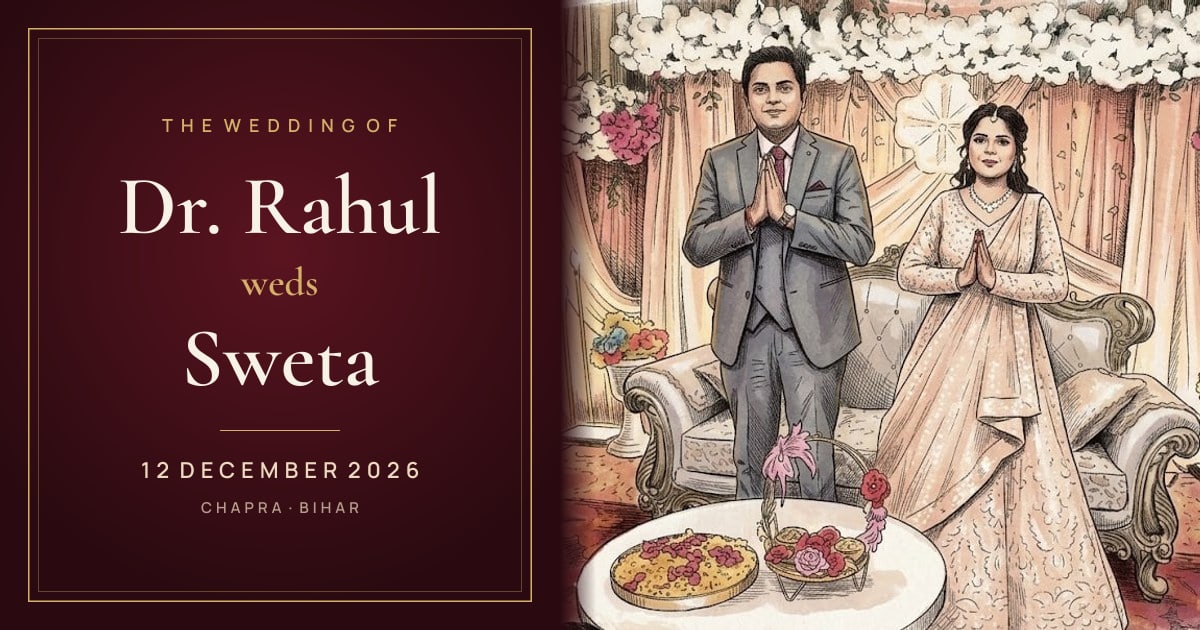
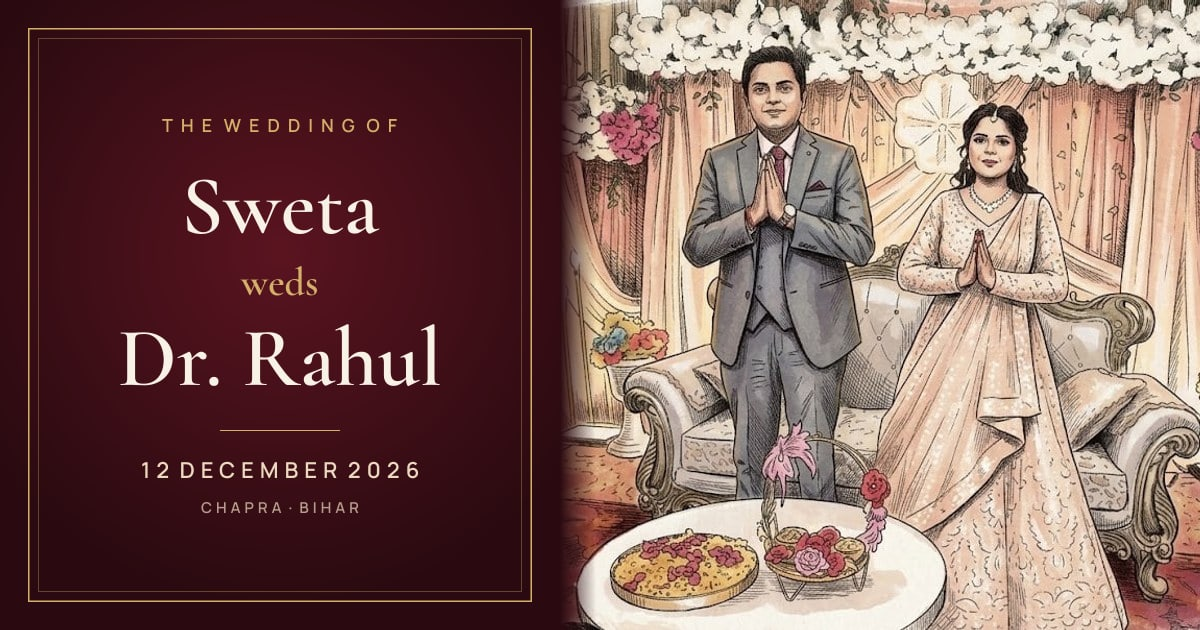
Present the invitation as hosted by the bride's family
- Bride first wherever the couple appears together: envelope (names and the
  wax seal, now S ✦ R), hero, closing, menu, page title, share card,
  screen-reader labels, image descriptions and calendar file names —
  "Sweta weds Dr. Rahul" / "श्वेता संग डॉ. राहुल".
- Story: the bride (Daughter of Shree Chandrasekhar Singh & Smt. Savita Devi)
  on the left, "weds" between, the groom (Son of Dr. Birendra Kumar Singh &
  Smt. Renu Singh) on the right.
- Families: the bride's family on the left, the groom's on the right, with a
  fine gold seam and lotus between; stacked bride-first on phones. The host
  line now comes from the bride's parents, in English and Hindi.
- Dates, venues, events and all illustrations are unchanged (illustration
  files byte-identical).

Claude-Session: https://claude.ai/code/session_01PCn46gN2cdPUcMfrUSV7rg

Changed region(s): [[0.0925, 0.5127, 0.37, 0.6333], [0.0925, 0.2714, 0.37, 0.3921]]

diff --git a/src/i18n/translations.ts b/src/i18n/translations.ts
@@ -26,15 +26,13 @@ export const translations = {
     navLabel: "Invitation sections",
     navInvitation: "Invitation",
     invitationDialog: (title: string) => `${title} — wedding invitation`,
-    coupleAria: (groom: string, bride: string) => `${groom} and ${bride}`,
+    coupleAria: (first: string, second: string) => `${first} and ${second}`,
     envelopeHint: "Tap the seal to open",
     envelopeBlessings: "With the blessings of our families",
     familiesHeadingA: "With the Blessings",
     familiesHeadingB: "of Our Families",
-    /** Hindi uses its own complete sentence here; English builds it from data. */
-    familiesSentence: "",
-    familiesIntroEnd: ".",
     nameJoin: "&",
+    parentsJoin: "&",
     timeLabel: "Time",
     venueLabel: "Venue",
     detailsOf: (name: string) => `${name} details`,
@@ -61,14 +59,13 @@ export const translations = {
     navLabel: "निमंत्रण के भाग",
     navInvitation: "निमंत्रण",
     invitationDialog: (title: string) => `${title} — शुभ विवाह निमंत्रण`,
-    coupleAria: (groom: string, bride: string) => `${groom} संग ${bride}`,
+    coupleAria: (first: string, second: string) => `${first} संग ${second}`,
     envelopeHint: "निमंत्रण खोलने के लिए मुहर छुएँ",
     envelopeBlessings: "परिवारजनों के आशीर्वाद से",
     familiesHeadingA: "बड़ों के",
     familiesHeadingB: "आशीर्वाद से",
-    familiesSentence: "डॉ. राहुल और श्वेता के शुभ विवाह में आपकी गरिमामयी उपस्थिति प्रार्थनीय है।",
-    familiesIntroEnd: "।",
     nameJoin: "संग",
+    parentsJoin: "एवं",
     timeLabel: "समय",
     venueLabel: "स्थान",
     detailsOf: (name: string) => `${name} का विवरण`,
@@ -96,7 +93,7 @@ export const hindiContent = {
     groom: "डॉ. राहुल",
     groomFirstName: "राहुल",
     bride: "श्वेता",
-    title: "डॉ. राहुल संग श्वेता",
+    title: "श्वेता संग डॉ. राहुल",
     date: "12 दिसंबर 2026",
     city: "छपरा, बिहार",
   },
@@ -111,9 +108,13 @@ export const hindiContent = {
     titleB: "एक नई शुरुआत",
     groomLabel: "वर",
     brideLabel: "वधू",
+    brideParentsLabel: "सुपुत्री",
+    groomParentsLabel: "सुपुत्र",
   },
   families: {
     heading: "बड़ों के आशीर्वाद से",
+    intro:
+      "श्री चंद्रशेखर सिंह एवं श्रीमती सविता देवी ने अपनी सुपुत्री श्वेता का शुभ विवाह डॉ. राहुल के साथ निश्चित किया है। इस मंगल अवसर पर आप सपरिवार सादर आमंत्रित हैं।",
     groom: {
       label: "वर पक्ष",
       father: "डॉ. बिरेन्द्र कुमार सिंह",
@@ -172,11 +173,11 @@ export const hindiContent = {
     arrived: "आज वो शुभ घड़ी आ गई",
   },
   images: {
-    hero: { alt: "मंच पर हाथ जोड़कर अतिथियों का स्वागत करते डॉ. राहुल और श्वेता का चित्र" },
-    heroMobile: { alt: "मंच पर हाथ जोड़कर अतिथियों का स्वागत करते डॉ. राहुल और श्वेता का चित्र" },
+    hero: { alt: "मंच पर हाथ जोड़कर अतिथियों का स्वागत करते श्वेता और डॉ. राहुल का चित्र" },
+    heroMobile: { alt: "मंच पर हाथ जोड़कर अतिथियों का स्वागत करते श्वेता और डॉ. राहुल का चित्र" },
     story: { alt: "सीढ़ियों पर खड़ी श्वेता को मुस्कुराकर देखते डॉ. राहुल का चित्र" },
-    wedding: { alt: "श्वेता के कंधे पर हाथ रखे, एक-दूसरे को देखकर मुस्कुराते डॉ. राहुल और श्वेता का चित्र" },
-    closing: { alt: "विवाह परिधान में साथ खड़े डॉ. राहुल और श्वेता का चित्र" },
+    wedding: { alt: "श्वेता के कंधे पर हाथ रखे, एक-दूसरे को देखकर मुस्कुराते श्वेता और डॉ. राहुल का चित्र" },
+    closing: { alt: "विवाह परिधान में साथ खड़े श्वेता और डॉ. राहुल का चित्र" },
   },
   final: {
     heading: "हार्दिक आभार",

diff --git a/src/components/CoupleStory.tsx b/src/components/CoupleStory.tsx
@@ -31,7 +31,7 @@ function Person({ name, note }: { name: string; note?: string }) {
 }
 
 export default function CoupleStory() {
-  const { story, families, couple, images } = useWedding();
+  const { story, families, couple, images, invitation } = useWedding();
   const t = useT();
   const rise = useRise();
 
@@ -52,15 +52,28 @@ export default function CoupleStory() {
           <m.div variants={rise(0.18)}>
             <OrnamentDivider tone="wine" animate={false} className="mx-auto mt-4 h-7 w-44 opacity-60 lg:mx-0" />
           </m.div>
-          {/* short introduction: the two of them, by name */}
-          <m.dl variants={rise(0.3)} className="mx-auto mt-5 grid max-w-xs grid-cols-2 gap-4 lg:mx-0">
-            <div>
-              <dt className="eyebrow text-[0.56rem] text-gold-deep">{story.groomLabel}</dt>
-              <dd className="mt-1 font-serif text-2xl text-ink">{couple.groom}</dd>
-            </div>
-            <div>
+          {/* the couple, as on the card: bride and her family on the left, groom and his on the right */}
+          <m.dl variants={rise(0.3)} className="mx-auto mt-6 grid max-w-md grid-cols-[1fr_auto_1fr] items-start gap-3 sm:gap-5 lg:mx-0">
+            <div className="text-center lg:text-left">
               <dt className="eyebrow text-[0.56rem] text-gold-deep">{story.brideLabel}</dt>
               <dd className="mt-1 font-serif text-2xl text-ink">{couple.bride}</dd>
+              <dd className="mt-2 text-[0.72rem] leading-snug text-ink-soft">
+                <span className="block font-serif text-[0.8rem] italic text-gold-deep">{story.brideParentsLabel}</span>
+                {families.bride.father} {t.parentsJoin} {families.bride.mother}
+              </dd>
+            </div>
+            <div aria-hidden className="flex flex-col items-center gap-1.5 pt-5 text-gold-deep/80">
+              <span className="h-5 w-px bg-gradient-to-b from-transparent to-gold-deep/45" />
+              <span className="font-serif text-lg italic">{invitation.weds}</span>
+              <span className="h-5 w-px bg-gradient-to-t from-transparent to-gold-deep/45" />
+            </div>
+            <div className="text-center lg:text-right">
+              <dt className="eyebrow text-[0.56rem] text-gold-deep">{story.groomLabel}</dt>
+              <dd className="mt-1 font-serif text-2xl text-ink">{couple.groom}</dd>
+              <dd className="mt-2 text-[0.72rem] leading-snug text-ink-soft">
+                <span className="block font-serif text-[0.8rem] italic text-gold-deep">{story.groomParentsLabel}</span>
+                {families.groom.father} {t.parentsJoin} {families.groom.mother}
+              </dd>
             </div>
           </m.dl>
         </div>
@@ -82,26 +95,30 @@ export default function CoupleStory() {
           {t.familiesHeadingA} <span className="italic text-wine">{t.familiesHeadingB}</span>
         </m.h3>
         <m.p variants={rise(0.16)} className="mx-auto mt-3 max-w-md text-[0.9rem] leading-relaxed text-ink-soft">
-          {t.familiesSentence || (
-            <>
-              {families.intro} {couple.groom} &amp; {couple.bride}{t.familiesIntroEnd}
-            </>
-          )}
+          {families.intro}
         </m.p>
-        <m.div variants={rise(0.26)} className="mt-7 grid gap-7 sm:grid-cols-2 sm:gap-10">
-          <div>
-            <p className="eyebrow text-[0.58rem] text-gold-deep">{families.groom.label}</p>
-            <ul className="mt-2 space-y-1">
-              <Person name={families.groom.father} note={families.groom.fatherTitle} />
-              <Person name={families.groom.mother} />
-            </ul>
-          </div>
+        {/* bride's family on the left, groom's family on the right — a fine gold seam between */}
+        <m.div variants={rise(0.26)} className="mt-8 grid items-stretch gap-6 sm:grid-cols-[1fr_auto_1fr] sm:gap-8">
           <div>
             <p className="eyebrow text-[0.58rem] text-gold-deep">{families.bride.label}</p>
-            <ul className="mt-2 space-y-1">
+            <span aria-hidden className="mx-auto mt-2 block h-px w-10 bg-gold-deep/40" />
+            <ul className="mt-3 space-y-1">
               <Person name={families.bride.grandfather} note={families.bride.grandfatherTitle} />
               <Person name={families.bride.father} />
               <Person name={families.bride.mother} />
+            </ul>
+          </div>
+          <div aria-hidden className="flex items-center justify-center gap-3 sm:flex-col">
+            <span className="h-px w-16 bg-gradient-to-l from-gold-deep/40 to-transparent sm:h-auto sm:w-px sm:flex-1 sm:bg-gradient-to-t" />
+            <LotusMark tone="wine" className="h-5 w-8 shrink-0 opacity-70" />
+            <span className="h-px w-16 bg-gradient-to-r from-gold-deep/40 to-transparent sm:h-auto sm:w-px sm:flex-1 sm:bg-gradient-to-b" />
+          </div>
+          <div>
+            <p className="eyebrow text-[0.58rem] text-gold-deep">{families.groom.label}</p>
+            <span aria-hidden className="mx-auto mt-2 block h-px w-10 bg-gold-deep/40" />
+            <ul className="mt-3 space-y-1">
+              <Person name={families.groom.father} note={families.groom.fatherTitle} />
+              <Person name={families.groom.mother} />
             </ul>
           </div>
         </m.div>

diff --git a/src/components/EnvelopeOpening.tsx b/src/components/EnvelopeOpening.tsx
@@ -10,7 +10,7 @@
  *
  * The envelope: ivory handmade paper with gold foil rims and borders, the
  * Ganesh mark and the Vakratunda shloka printed in kumkum ink on the flap,
- * the couple's names on the pocket, and a pressed maroon wax seal (R ✦ S).
+ * the couple's names on the pocket, and a pressed maroon wax seal (S ✦ R).
  *
  * Sequence on tapping the seal / flap:
  *   seal presses and breaks → flap lifts slowly over the top (maroon jaali
@@ -145,8 +145,8 @@ function WaxSeal({ className = "" }: { className?: string }) {
       <circle cx="50" cy="50" r="22" fill="none" stroke="url(#seal-gold)" strokeWidth="0.45" strokeOpacity="0.8" />
       {/* monogram */}
       <text x="50" y="57" textAnchor="middle" fill="url(#seal-gold)" className="font-serif" fontSize="17.5" letterSpacing="0.6">
-        R<tspan fontSize="8.5" dy="-3.4"> ✦ </tspan>
-        <tspan dy="3.4">S</tspan>
+        S<tspan fontSize="8.5" dy="-3.4"> ✦ </tspan>
+        <tspan dy="3.4">R</tspan>
       </text>
       <path d="M44 39.5 Q50 35 56 39.5" fill="none" stroke="url(#seal-gold)" strokeWidth="0.6" strokeLinecap="round" />
       <path d="M44 61 Q50 65.5 56 61" fill="none" stroke="url(#seal-gold)" strokeWidth="0.6" strokeLinecap="round" />
@@ -306,9 +306,9 @@ export default function EnvelopeOpening({ onOpen }: { onOpen: () => void }) {
               <div className="relative flex h-[54%] flex-col items-center justify-center px-[8%] text-center">
                 <p className="font-sans font-semibold uppercase tracking-[0.34em] text-[2.3cqw] text-gold-deep sm:text-[1.55cqw]">{tr.envelopeBlessings}</p>
                 <LotusMark tone="wine" className="my-[3%] h-[3.6cqw] w-auto opacity-80 sm:h-[2.6cqw]" />
-                <p className="serif-display text-[8.4cqw] leading-none text-wine sm:text-[5.6cqw]">{couple.groom}</p>
-                <p className="my-[1.5%] font-serif text-[4cqw] italic text-gold-deep sm:text-[2.7cqw]">{invitation.weds}</p>
                 <p className="serif-display text-[8.4cqw] leading-none text-wine sm:text-[5.6cqw]">{couple.bride}</p>
+                <p className="my-[1.5%] font-serif text-[4cqw] italic text-gold-deep sm:text-[2.7cqw]">{invitation.weds}</p>
+                <p className="serif-display text-[8.4cqw] leading-none text-wine sm:text-[5.6cqw]">{couple.groom}</p>
                 <p className="font-sans font-semibold uppercase tracking-[0.34em] mt-[4%] text-[2.4cqw] text-ink-soft sm:text-[1.6cqw]">{couple.date}</p>
               </div>
             </m.div>
@@ -335,9 +335,9 @@ export default function EnvelopeOpening({ onOpen }: { onOpen: () => void }) {
                   <p lang="hi" className="font-deva text-[4cqw] leading-[1.5] sm:text-[2.8cqw]" style={{ color: INK }}>
                     {invitation.hindiTitle}
                   </p>
-                  <p className="serif-display mt-[0.4em] text-[7.4cqw] leading-[0.95] text-wine sm:text-[4.9cqw]">{couple.groom}</p>
+                  <p className="serif-display mt-[0.4em] text-[7.4cqw] leading-[0.95] text-wine sm:text-[4.9cqw]">{couple.bride}</p>
                   <p className="font-serif text-[3.9cqw] italic leading-[1.35] text-gold-deep sm:text-[2.6cqw]">{invitation.weds}</p>
-                  <p className="serif-display text-[7.4cqw] leading-[0.95] text-wine sm:text-[4.9cqw]">{couple.bride}</p>
+                  <p className="serif-display text-[7.4cqw] leading-[0.95] text-wine sm:text-[4.9cqw]">{couple.groom}</p>
                   <div className="mt-[0.9em] flex items-center gap-[1.5cqw] sm:mt-[0.8em]">
                     <span className="h-px w-[6cqw] bg-gold/70 sm:w-[4cqw]" />
                     <p className="font-sans font-semibold uppercase tracking-[0.34em] text-[2.4cqw] text-gold-deep sm:text-[1.65cqw]">{couple.date}</p>

diff --git a/src/data/weddingData.ts b/src/data/weddingData.ts
@@ -41,7 +41,7 @@ export const weddingData = {
     groom: "Dr. Rahul",
     groomFirstName: "Rahul",
     bride: "Sweta",
-    title: "Dr. Rahul Weds Sweta",
+    title: "Sweta Weds Dr. Rahul",
     date: "12 December 2026",
     dateShort: "12.12.2026",
     city: "Chapra, Bihar",
@@ -63,11 +63,14 @@ export const weddingData = {
     titleB: "One Journey",
     groomLabel: "The Groom",
     brideLabel: "The Bride",
+    brideParentsLabel: "Daughter of",
+    groomParentsLabel: "Son of",
   },
 
   families: {
     heading: "With the Blessings of Our Families",
-    intro: "With the blessings of our parents and elders, we invite you to celebrate the wedding of",
+    intro:
+      "With the blessings of their elders, Shree Chandrasekhar Singh & Smt. Savita Devi request the pleasure of your company at the wedding of their daughter Sweta with Dr. Rahul.",
     groom: {
       label: "Groom's Family",
       father: "Dr. Birendra Kumar Singh",
@@ -161,11 +164,11 @@ export const weddingData = {
 
   /** Illustrated artwork — never distorted; crops only trim empty paper. */
   images: {
-    hero: img("illustrations/rahul-sweta-namaste", "Illustration of Dr. Rahul and Sweta greeting guests with folded hands on their flower-decked wedding stage"),
-    heroMobile: img("illustrations/rahul-sweta-namaste-mobile", "Illustration of Dr. Rahul and Sweta greeting guests with folded hands on their flower-decked wedding stage"),
-    story: img("illustrations/rahul-sweta-staircase", "Illustration of Dr. Rahul smiling up at Sweta as she stands on the staircase"),
-    wedding: img("illustrations/rahul-sweta-embrace", "Illustration of Dr. Rahul with his hand on Sweta's shoulder as they smile at each other"),
-    closing: img("illustrations/rahul-sweta-together", "Illustration of Dr. Rahul and Sweta standing together in their wedding attire"),
+    hero: img("illustrations/rahul-sweta-namaste", "Illustration of Sweta and Dr. Rahul greeting guests with folded hands on their flower-decked wedding stage"),
+    heroMobile: img("illustrations/rahul-sweta-namaste-mobile", "Illustration of Sweta and Dr. Rahul greeting guests with folded hands on their flower-decked wedding stage"),
+    story: img("illustrations/rahul-sweta-staircase", "Illustration of Sweta standing on the staircase as Dr. Rahul smiles up at her"),
+    wedding: img("illustrations/rahul-sweta-embrace", "Illustration of Sweta and Dr. Rahul smiling at each other, his hand on her shoulder"),
+    closing: img("illustrations/rahul-sweta-together", "Illustration of Sweta and Dr. Rahul standing together in their wedding attire"),
   },
 
   music: {
@@ -194,10 +197,10 @@ export const weddingData = {
   ],
 
   seo: {
-    title: "Dr. Rahul Weds Sweta | 12 December 2026",
-    description: "Join us in celebrating the wedding of Dr. Rahul and Sweta on 12 December 2026.",
+    title: "Sweta Weds Dr. Rahul | 12 December 2026",
+    description: "Join us in celebrating the wedding of Sweta and Dr. Rahul on 12 December 2026.",
     ogImage: "/og/rahul-sweta-og.jpg",
-    ogImageAlt: "Dr. Rahul weds Sweta — 12 December 2026",
+    ogImageAlt: "Sweta weds Dr. Rahul — 12 December 2026",
     themeColor: "#2a0a10",
   },
 } as const;

diff --git a/src/components/HeroSection.tsx b/src/components/HeroSection.tsx
@@ -51,7 +51,7 @@ export default function HeroSection({ revealed }: { revealed: boolean }) {
     <section
       ref={ref}
       id="top"
-      aria-label={t.coupleAria(couple.groom, couple.bride)}
+      aria-label={t.coupleAria(couple.bride, couple.groom)}
       className="surface-maroon relative flex min-h-[100svh] items-center overflow-hidden px-6 pb-12 pt-20 sm:px-10"
     >
       {/* atmosphere: breathing glow, garland, florals, petals, gold dust */}
@@ -85,9 +85,9 @@ export default function HeroSection({ revealed }: { revealed: boolean }) {
             {invitation.cordially}
           </m.p>
           <m.h2 variants={rise(0.5)} className="serif-display mt-4 text-[3.1rem] leading-[0.92] text-ivory sm:text-6xl lg:text-[5.4rem]">
-            <span className="block">{couple.groom}</span>
-            <span className="my-1.5 block font-serif text-2xl italic text-gold-light lg:text-4xl">{invitation.weds}</span>
             <span className="block">{couple.bride}</span>
+            <span className="my-1.5 block font-serif text-2xl italic text-gold-light lg:text-4xl">{invitation.weds}</span>
+            <span className="block">{couple.groom}</span>
           </m.h2>
           <m.div variants={rise(0.8)} className="mt-4 flex items-center gap-4">
             <span className="h-px w-8 bg-gold/70" />

diff --git a/src/components/FinalSection.tsx b/src/components/FinalSection.tsx
@@ -119,9 +119,9 @@ export default function FinalSection() {
               <LotusMark className="mx-auto mb-3 h-7 w-11 lg:mx-0" />
             </m.div>
             <m.p variants={at(0.7, 18)} className="serif-display text-[3rem] sm:text-6xl">
-              <span className="gold-text gold-text-animate">{couple.groom}</span>
-              <span className="mx-2 font-serif text-2xl italic text-champagne sm:text-3xl">{t.nameJoin}</span>
               <span className="gold-text gold-text-animate">{couple.bride}</span>
+              <span className="mx-2 font-serif text-2xl italic text-champagne sm:text-3xl">{t.nameJoin}</span>
+              <span className="gold-text gold-text-animate">{couple.groom}</span>
             </m.p>
             <m.div variants={at(1)} className="mt-4 flex items-center justify-center gap-4 lg:justify-start">
               <span className="h-px w-10 bg-gold/70" />

diff --git a/src/components/InvitationOpening.tsx b/src/components/InvitationOpening.tsx
@@ -142,13 +142,13 @@ export default function InvitationOpening({ onOpen }: { onOpen: () => void }) {
 
               <h1 className="mt-8 flex flex-col items-center">
                 <m.span {...fade(3.0, 30)} className="serif-display gold-text gold-text-animate text-[3.6rem] sm:text-7xl">
-                  {couple.groom}
+                  {couple.bride}
                 </m.span>
                 <m.span {...fade(3.6)} className="my-3 font-serif text-2xl italic text-champagne/90 sm:text-3xl">
                   {invitation.weds}
                 </m.span>
                 <m.span {...fade(4.0, 30)} className="serif-display gold-text gold-text-animate text-[3.6rem] sm:text-7xl">
-                  {couple.bride}
+                  {couple.groom}
                 </m.span>
               </h1>
 

diff --git a/src/components/ContentProtection.tsx b/src/components/ContentProtection.tsx
@@ -8,7 +8,7 @@ import { useEffect } from "react";
 // Event-driven only — no polling or timers running in the background.
 
 const NOTICE =
-  "%cDr. Rahul & Sweta — private wedding invitation%c\nThe design, photographs and music on this page are private and may not be copied or reused.";
+  "%cSweta & Dr. Rahul — private wedding invitation%c\nThe design, photographs and music on this page are private and may not be copied or reused.";
 const NOTICE_STYLE = ["font:600 15px Georgia,serif;color:#c9a45c", "font:12px system-ui;color:#999"];
 
 const isEditable = (t: EventTarget | null) =>

diff --git a/src/components/CalendarButton.tsx b/src/components/CalendarButton.tsx
@@ -47,7 +47,7 @@ export default function CalendarButton({
   }, [open]);
 
   const single = events.length === 1 ? events[0] : null;
-  const filename = single ? `${single.id}-rahul-weds-sweta.ics` : "rahul-weds-sweta-celebrations.ics";
+  const filename = single ? `${single.id}-sweta-weds-rahul.ics` : "sweta-weds-rahul-celebrations.ics";
   const item =
     "flex w-full items-center gap-3 px-4 py-3 text-left text-[0.8rem] tracking-wide text-ivory transition hover:bg-gold/15 focus-visible:bg-gold/15";
 

diff --git a/src/lib/calendar.ts b/src/lib/calendar.ts
@@ -63,7 +63,7 @@ export function buildIcs(events: readonly WeddingEvent[]) {
       "END:VEVENT",
     ];
   });
-  return ["BEGIN:VCALENDAR", "VERSION:2.0", "PRODID:-//Rahul Weds Sweta//Invitation//EN", "CALSCALE:GREGORIAN", "METHOD:PUBLISH", ...body, "END:VCALENDAR"]
+  return ["BEGIN:VCALENDAR", "VERSION:2.0", "PRODID:-//Sweta Weds Rahul//Invitation//EN", "CALSCALE:GREGORIAN", "METHOD:PUBLISH", ...body, "END:VCALENDAR"]
     .map(fold)
     .join("\r\n");
 }
